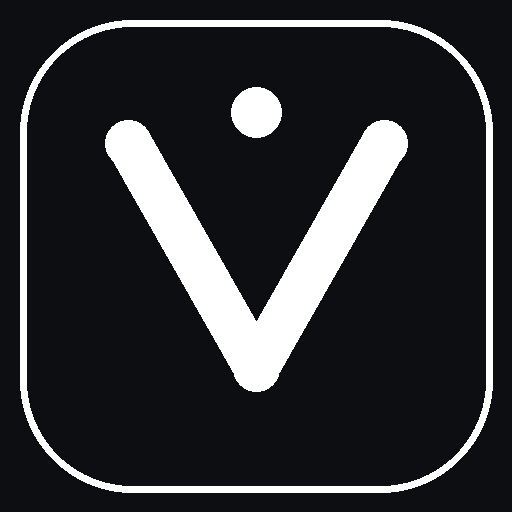
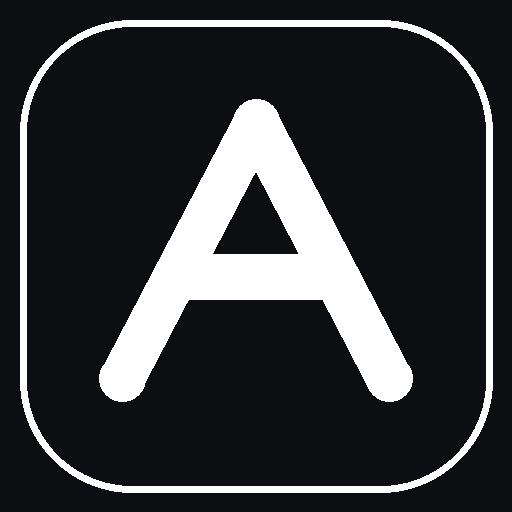
Release AlternativeCalc ver 1.0 - Full documentation, rebranding, PWA setup

Changed region(s): [[0.1875, 0.1562, 0.8125, 0.7812]]

diff --git a/index.html b/index.html
@@ -8,8 +8,8 @@
   <meta name="mobile-web-app-capable" content="yes">
   <meta name="apple-mobile-web-app-capable" content="yes">
   <meta name="apple-mobile-web-app-status-bar-style" content="black-translucent">
-  <meta name="apple-mobile-web-app-title" content="VarCalc">
-  <title>VarCalc</title>
+  <meta name="apple-mobile-web-app-title" content="AlternativeCalc">
+  <title>AlternativeCalc</title>
   <link rel="manifest" href="manifest.json">
   <link rel="apple-touch-icon" href="icon-192.png">
   <link rel="stylesheet" href="style.css">
@@ -22,7 +22,7 @@
     <!-- Top Header -->
     <header class="app-header">
       <div class="brand-group">
-        <h1 class="app-title">VarCalc</h1>
+        <h1 class="app-title">AlternativeCalc</h1>
       </div>
       <div class="header-actions">
         <button id="openHelpBtn" class="icon-btn" title="使い方" aria-label="Help">
@@ -174,24 +174,65 @@
     <!-- Modal: Help / User Guide -->
     <div class="modal-overlay" id="helpModal">
       <div class="modal-card" style="max-height: 80vh; overflow-y: auto;">
-        <h2 class="modal-title">VarCalc の使い方</h2>
-        <div class="help-content" style="font-size: 13px; line-height: 1.7; color: var(--text-secondary);">
-          <p style="margin-bottom: 10px;"><strong>■ 基本的な計算</strong><br>
-          四則演算や括弧付きの式をそのまま打ち込んで <code>=</code> または <code>Enter</code> を押します。<br>
-          例: <code>1122 * (4.75 + 4570) + 2500 + 2500</code></p>
+        <h2 class="modal-title">AlternativeCalc の使い方</h2>
+        <div class="help-content" style="font-size: 13px; line-height: 1.8; color: var(--text-secondary);">
+          <p><strong>■ 基本的な計算</strong></p>
+          <ul style="padding-left: 18px; margin-bottom: 14px;">
+            <li>四則演算（<code>+</code>, <code>−</code>, <code>×</code>, <code>÷</code>）、括弧 <code>()</code>、小数点 <code>.</code>、べき乗 <code>xʸ</code>、平方根 <code>√</code> に完全対応している。</li>
+            <li>例: <code>1122 * (4.75 + 4570) + 2500 + 2500</code></li>
+            <li>数式を入力している途中で、文法が成立した時点で入力欄下部に薄くリアルタイムプレビューが表示される。</li>
+            <li>キーパッドの <code>=</code> または物理キーボードの <code>Enter</code> を押すことで計算が確定し、上部に計算ログとして蓄積される。</li>
+            <li>JavaScript特有の浮動小数点丸め誤差（例: <code>0.1 + 0.2 = 0.30000000000000004</code>）は内部で自動補正され、正確な十進数で評価される。</li>
+          </ul>
 
-          <p style="margin-bottom: 10px;"><strong>■ リアクティブ変数</strong><br>
-          <code>taxA = 1.1</code> のように代入できます。<br>
-          <code>taxB = taxA</code> と定義した後に <code>taxA = 1.08</code> を変更すると、<code>taxB</code> も自動的に再計算・連動更新されます。</p>
+          <p><strong>■ リアクティブ変数システム</strong></p>
+          <ul style="padding-left: 18px; margin-bottom: 14px;">
+            <li><code>taxA = 1.1</code> のように代入式を入力して実行することで、環境変数が登録される。</li>
+            <li>登録された変数は画面上部の「変数チップ」に一覧表示され、ワンタップで数式中に変数名を挿入できる。</li>
+            <li>変数同士を連動参照させた場合（例: <code>taxB = taxA</code>）、大元の <code>taxA</code> の値を更新すると、依存する <code>taxB</code> も自動的にカスケード再計算される。</li>
+            <li>不要になった変数は、チップ右端の [×] を押すことで即座に削除できる。</li>
+            <li>上部の <code>[+ 変数]</code> ボタンからダイアログ形式で変数を登録することも可能である。</li>
+          </ul>
 
-          <p style="margin-bottom: 10px;"><strong>■ 枝分かれ（ブランチ）</strong><br>
-          過去の計算結果をタップして<strong>「ここから枝分かれ」</strong>を選ぶと、その時点の計算履歴と変数を引き継いだ新しいタブが作成されます。シミュレーションや別パターンの検討に便利です。</p>
+          <p><strong>■ 枝分かれ（ブランチ）機能</strong></p>
+          <ul style="padding-left: 18px; margin-bottom: 14px;">
+            <li>過去の計算ログカードをタップするとアクションメニューが開く。</li>
+            <li>「枝分かれ (新タブ作成)」を選択すると、その時点の計算履歴および変数状態をそのまま引き継いだ新しいタブ（例: <code>Calc 1 (枝1)</code>）が自動生成される。</li>
+            <li>異なる税率、数量、割引率などを用いた別パターンのシミュレーションを、元の計算を壊さず並行して比較検討する用途に最適である。</li>
+          </ul>
 
-          <p style="margin-bottom: 10px;"><strong>■ かっこの自動補完</strong><br>
-          行末で <code>(</code> を押すと自動で <code>()</code> が入力され、カーソルがかっこの間に移動します。</p>
+          <p><strong>■ タブ（セッション）管理</strong></p>
+          <ul style="padding-left: 18px; margin-bottom: 14px;">
+            <li>上部タブバーの <code>+</code> ボタンを押すことで、独立した計算タブを自由に追加できる。</li>
+            <li>各タブごとに計算履歴、変数テーブルは完全に独立して管理される。</li>
+            <li>タブをダブルクリック（または長押し）することで、任意のわかりやすい名前に変更できる。</li>
+            <li>タブの計算履歴や変数は、ブラウザの LocalStorage に自動的に保存・永続化される。</li>
+          </ul>
 
-          <p><strong>■ キーボードショートカット (PC)</strong><br>
-          <code>Enter</code>: 実行 / <code>▲・▼</code>: 過去の式を呼び出し / <code>Esc</code>: 入力クリア</p>
+          <p><strong>■ スマートな括弧・平方根の自動補完</strong></p>
+          <ul style="padding-left: 18px; margin-bottom: 14px;">
+            <li>行末で <code>(</code> を入力した場合は自動で <code>()</code> が補完され、カーソルが自動的にかっこの間 <code>(|)</code> に移動する。</li>
+            <li>数式の途中で <code>(</code> を入力した場合は、既存の文字を乱さないよう単一の <code>(</code> のみ挿入される。</li>
+            <li><code>√</code> を押すと <code>sqrt()</code> が入力され、同様に括弧内にカーソルが自動配置される。</li>
+          </ul>
+
+          <p><strong>■ CSV書き出し ＆ PWA（アプリ化）対応</strong></p>
+          <ul style="padding-left: 18px; margin-bottom: 14px;">
+            <li>ヘッダーのダウンロードアイコンを押すと、現在開いているタブの計算履歴（日時、式、結果、種別）を CSV 形式でダウンロードできる（Excel対応 UTF-8 BOM付き）。</li>
+            <li>ブラウザメニューから「ホーム画面に追加」または「アプリをインストール」を選択することで、アドレスバーのない独立したネイティブアプリとしてインストール可能である。</li>
+            <li>Service Worker によりオフラインキャッシュが有効化されており、通信環境のないオフライン状態でも完全に動作する。</li>
+          </ul>
+
+          <p><strong>■ キーボードショートカット (PC)</strong></p>
+          <ul style="padding-left: 18px; margin-bottom: 14px;">
+            <li><code>Enter</code>: 計算実行 / 変数登録</li>
+            <li><code>▲ / ▼</code> (Arrow Up / Down): 過去の入力式を遡る / 次の式に進む</li>
+            <li><code>Esc</code>: 入力欄クリア（ポップアップ表示中は閉じる）</li>
+          </ul>
+
+          <div style="text-align: right; margin-top: 20px; font-family: var(--font-mono); font-size: 11px; opacity: 0.6; border-top: 1px solid var(--border-subtle); padding-top: 10px;">
+            AlternativeCalc ver 1.0
+          </div>
         </div>
         <div class="modal-actions" style="margin-top: 16px;">
           <button class="modal-btn modal-btn-save" id="closeHelpBtn">閉じる</button>

diff --git a/app.js b/app.js
@@ -1,5 +1,5 @@
 /**
- * VarCalc - Application Controller
+ * AlternativeCalc - Application Controller
  * Supports:
  * - Multi-session tabs & Branching (枝分かれ)
  * - Reactive variable chaining (taxA=1.1 -> taxB=taxA -> taxA=1.08 cascades to taxB)
@@ -7,6 +7,7 @@
  * - Smart smart-parentheses auto-pairing at end-of-line
  * - Dual Light/Dark themes (system preference compliant)
  * - In-app Help popup guide
+ * Version: 1.0
  */
 
 document.addEventListener('DOMContentLoaded', () => {
@@ -89,11 +90,12 @@ document.addEventListener('DOMContentLoaded', () => {
   // --------------------------------------------------------------------------
   // LocalStorage Persistence
   // --------------------------------------------------------------------------
-  const STORAGE_KEY = 'varcalc_sessions_v1';
+  const STORAGE_KEY = 'alternativecalc_sessions_v1';
+  const STORAGE_KEY_FALLBACK = 'varcalc_sessions_v1';
 
   const loadSavedData = () => {
     try {
-      const saved = localStorage.getItem(STORAGE_KEY);
+      const saved = localStorage.getItem(STORAGE_KEY) || localStorage.getItem(STORAGE_KEY_FALLBACK);
       if (saved) {
         const parsed = JSON.parse(saved);
         if (Array.isArray(parsed.sessions) && parsed.sessions.length > 0) {
@@ -853,7 +855,7 @@ document.addEventListener('DOMContentLoaded', () => {
     const a = document.createElement('a');
     a.href = url;
     const safeName = (active.name || 'session').replace(/[\\/:*?"<>|]/g, '_');
-    a.download = `VarCalc_${safeName}_${new Date().toISOString().slice(0, 10)}.csv`;
+    a.download = `AlternativeCalc_${safeName}_${new Date().toISOString().slice(0, 10)}.csv`;
     document.body.appendChild(a);
     a.click();
     document.body.removeChild(a);

diff --git a/sw.js b/sw.js
@@ -1,9 +1,10 @@
 /**
- * VarCalc Service Worker
+ * AlternativeCalc Service Worker
  * Enables offline caching and standalone PWA launch.
+ * Version 1.0
  */
 
-const CACHE_NAME = 'varcalc-v1';
+const CACHE_NAME = 'alternativecalc-v1.0';
 const ASSETS_TO_CACHE = [
   './',
   './index.html',
@@ -37,7 +38,6 @@ self.addEventListener('fetch', (e) => {
   e.respondWith(
     caches.match(e.request).then((cached) => {
       return cached || fetch(e.request).catch(() => {
-        // Fallback to cache if network fails
         return caches.match('./index.html');
       });
     })

diff --git a/README.md b/README.md
@@ -1,94 +1,107 @@
-# VarCalc
+# AlternativeCalc
 
-> **Reactive Variable & Terminal Formula Calculator with Material 3 Expressive Monochrome Design**  
-> スプレッドシートのように連動する変数機能と、ターミナル風の計算履歴・枝分かれ（ブランチ）を備えたWeb計算ツール。
+> **Reactive Variable & Terminal Formula Calculator**  
+> ターミナル風の数式直接入力・実行ログ管理と、スプレッドシートのように連動するリアクティブ変数、計算の枝分かれ（ブランチ）を備えたプロフェッショナル向けWeb計算ツールである。
 
 ![License](https://img.shields.io/badge/license-MIT-blue.svg)
 ![Dependencies](https://img.shields.io/badge/dependencies-zero-brightgreen.svg)
-![Platform](https://img.shields.io/badge/platform-Web%20%7C%20GitHub%20Pages-black.svg)
+![PWA](https://img.shields.io/badge/PWA-ready-black.svg)
+![Version](https://img.shields.io/badge/version-1.0-orange.svg)
 
 ---
 
-## 主な特徴
+## 概要
 
-1. **リアクティブな変数システム（連動再計算）**
-   - `taxA = 1.1` → `taxB = taxA` と定義した後に `taxA = 1.08` に変更すると、依存関係がカスケード評価され、`taxB` も自動的に `1.08` に再計算されます。
-   - 画面上部の「変数チップ」に現在値がリアルタイム表示され、ワンタップで式に挿入可能。
+一般的なスマートフォンの電卓アプリでは、括弧を含む複雑な四則演算の入力や過去の計算履歴の確認・再利用が困難である。一方で、PCのターミナル（REPL環境）による計算は履歴の追跡や数式の直接編集に優れているものの、スマートフォンからの操作には適していない。
 
-2. **計算ログからの「枝分かれ（ブランチ）」機能**
-   - 過去の計算結果をタップして「🌿 ここから枝分かれ」を選ぶと、その時点の計算履歴と変数を引き継いだ新しいタブが自動生成されます。
-   - A案・B案の比較検討や、異なる税率・パラメータでの試算がスムーズに行えます。
-
-3. **ターミナル風ログ ＆ リアルタイム計算プレビュー**
-   - 括弧付きの長い式や小数が混ざる計算（例: `1122*(4.75+4570)+2500+2500`）をそのままタイピング。
-   - 入力途中に入力欄下に薄く `= 5,137,869.5` とリアルタイムプレビューが表示されます。
-   - 安全な自作 AST 再帰下降パーサーにより `eval()` を一切使用せず、浮動小数点丸め誤差（`0.1 + 0.2 = 0.3`）も自動補正。
-
-4. **スマートな括弧入力（自動補完）**
-   - 行末で `(` を入力すると自動で `()` が入り、カーソルがかっこの間 `(|)` に移動します。途中への挿入時は邪魔にならないよう `(` のみ挿入されます。
-
-5. **洗練された 5×5 キーパッド ＆ スマホ誤動作防止**
-   - 不要な電卓メモリや ans キーを排し、テンキー・四則演算・履歴ナビゲーションに特化したクリーンな配置。
-   - スマホで電卓キーを連打してもソフトウェアキーボードが画面を隠さない完全な誤ポップアップ防止設計。
-
-6. **ライトテーマ / ダークテーマ自動対応**
-   - 端末の OS 設定（`prefers-color-scheme`）に準拠した高コントラスト・モノトーンデザイン。
-
-7. **完全静的・外部依存ゼロ**
-   - ビルドステップ不要。GitHub Pages にプッシュするだけで即座に稼働します。
+AlternativeCalc は、これらの課題を解決するために開発された計算ツールである。Material 3 Expressive の原則に基づいた洗練されたモノトーンデザインを採用し、PC・スマートフォンの双方で極めて快適な計算体験を提供する。
 
 ---
 
-## 計算の例
+## 主な機能一覧
 
-### 1. 括弧と小数の四則演算
-```text
-1122 * (4.75 + 4570) + 2500 + 2500
-=> 5,137,869.5
-```
+### 1. ターミナル風の数式入力とリアルタイム計算プレビュー
+- 括弧や小数が混在する長大な式（例: `1122 * (4.75 + 4570) + 2500 + 2500`）をそのままタイピングして評価可能である。
+- 文法的に成立した時点で、入力欄下部にリアルタイムプレビュー（`= 5,137,869.5`）が表示される。
+- `eval()` や外部ライブラリを一切使用せず、純粋な自作の再帰下降（AST）構文解析エンジンによって安全かつ高速に処理される。
+- JavaScript特有の浮動小数点演算誤差（例: `0.1 + 0.2 = 0.30000000000000004`）は内部で自動補正され、高精度な十進数計算が行われる。
 
-### 2. 変数の連動（リアクティブ）
-```text
-taxA = 1.1
-=> 1.1
+### 2. スプレッドシート連動型のリアクティブ変数システム
+- `taxA = 1.1` のように数式として入力・実行するだけで、環境変数が即座に登録される。
+- 変数同士の依存関係（例: `taxB = taxA`）を定義した場合、大元の変数 `taxA` を更新（例: `taxA = 1.08`）すると、依存する `taxB` も自動的にカスケード再計算される。
+- 登録された変数は画面上部の「変数チップ」に一覧表示され、ワンタップで入力中の数式へ変数名を挿入できる。
 
-taxB = taxA
-=> 1.1
+### 3. 計算履歴からの「枝分かれ（ブランチ）」機能
+- 過去の計算結果カードをタップし、「枝分かれ (新タブ作成)」を選択すると、その時点の計算ログおよび変数テーブルを引き継いだ新規タブが自動生成される。
+- 条件やパラメータ（税率、単価、割引率など）を変えた複数の試算パターンを、元の計算ログを保持したまま並行してシミュレーション・比較検討できる。
 
-taxA = 1.08
-=> 1.08 （taxB も自動的に 1.08 に連動更新されます）
+### 4. マルチセッション・タブ管理
+- 画面上部のタブバーから、計算セッションを自由に作成・切り替え可能である。
+- 各タブごとに計算履歴・変数テーブルは完全に独立して管理される。
+- タブをダブルクリックまたは長押しすることで、任意のセッション名（例: `見積A`, `税率シミュレーション`）へ変更できる。
+- すべてのデータはブラウザの `localStorage` に自動永続化され、リロード後も復元される。
 
-1000 * taxB
-=> 1,080
-```
+### 5. スマートな入力補助
+- 行末で `(` を押下した場合、自動的に `()` が補完され、キャレットが括弧の間 `(|)` に自動配置される（数式途中への入力時は単一の `(` のみ挿入）。
+- `√` キーを押下すると、平方根関数 `sqrt()` が括弧補完付きで挿入される。
+- 直前の1文字を削除する `BS`（Backspace）キーを配置している。
+
+### 6. PWA（Progressive Web Apps）完全対応
+- オフライン動作を可能にする Service Worker（`sw.js`）およびアプリアイコン（192px / 512px）を同梱している。
+- スマートフォン（iOS Safari / Android Chrome）や PC ブラウザの「ホーム画面に追加」または「アプリをインストール」により、アドレスバーのない独立したネイティブアプリとして動作する。
+- 通信環境のないオフライン状態や機内モードでも即座に起動して計算可能である。
+
+### 7. 端末設定準拠のデュアルテーマ（ライト / ダーク）
+- OSのシステム配色設定（`prefers-color-scheme`）を自動検出し、ライトモード・ダークモードの最適なモノトーンパレットに自動で切り替わる。
+
+### 8. 計算履歴の CSV ダウンロード
+- ヘッダー右上のダウンロードアイコンを押下することで、開いているタブの計算履歴（日時、数式、計算結果、種別）を UTF-8 BOM 付き CSV ファイルとしてワンタップで書き出し可能である（Microsoft Excel での文字化け防止に対応）。
 
 ---
 
-## キーボードショートカット（PC操作時）
+## 5×5 キーパッド配列
 
-| キー | 動作 |
-| :--- | :--- |
-| `Enter` | 式または変数を実行・評価 |
-| `↑` (Arrow Up) | 過去の入力式を遡る |
-| `↓` (Arrow Down) | 次の式に進む / 現在の入力に戻る |
-| `Esc` | 入力欄をクリア（モーダル表示中は閉じる） |
+| 1列目 | 2列目 | 3列目 | 4列目 | 5列目 |
+| :---: | :---: | :---: | :---: | :---: |
+| **C** (クリア) | **BS** (1文字消す) | **(** | **)** | **÷** |
+| **7** | **8** | **9** | **√** (平方根) | **×** |
+| **4** | **5** | **6** | **xʸ** (べき乗) | **−** |
+| **1** | **2** | **3** | **▲** (前の式) | **+** |
+| **0** | **00** | **.** (小数) | **▼** (次の式) | **=** (実行) |
 
 ---
 
-## GitHub Pages での公開手順
+## キーボードショートカット (PC操作時)
 
-1. **GitHub でリポジトリを作成**（リポジトリ名: `VarCalc`）。
-2. 本フォルダのファイルをプッシュします：
+- `Enter`: 計算実行および変数登録
+- `▲` (Arrow Up): 過去の入力式を遡って入力欄に展開
+- `▼` (Arrow Down): 履歴を進める / 現在の入力に戻る
+- `Esc`: 入力欄のクリア（ポップアップ表示時はモーダルを閉じる）
+
+---
+
+## GitHub Pages への公開手順
+
+本リポジトリはビルド不要の完全な静的アセット（Vanilla HTML / CSS / JS）のみで構成されている。
+
+1. GitHub 上でリポジトリ `AlternativeCalc` を作成する。
+2. 本ディレクトリのファイルをプッシュする：
    ```bash
    git add .
-   git commit -m "Deploy VarCalc"
-   git remote add origin https://github.com/<あなたのユーザー名>/VarCalc.git
+   git commit -m "Release AlternativeCalc ver 1.0"
+   git remote add origin https://github.com/<GitHubユーザー名>/AlternativeCalc.git
    git push -u origin main
    ```
-3. GitHub リポジトリの **Settings** > **Pages** を開き、Source を `Deploy from a branch`、Branch を `main` / `/(root)` に設定して **Save**。
-4. 数分後、`https://<あなたのユーザー名>.github.io/VarCalc/` でアクセス可能になります。
+3. リポジトリの **Settings** > **Pages** を開く。
+4. **Build and deployment** の **Source** で `Deploy from a branch` を選択し、Branch を `main` / `/(root)` に設定して **Save** を押下する。
+5. 公開URL（`https://<GitHubユーザー名>.github.io/AlternativeCalc/`）にて即座に稼働する。
 
 ---
 
 ## ライセンス
+
 MIT License
+
+---
+
+AlternativeCalc ver 1.0
